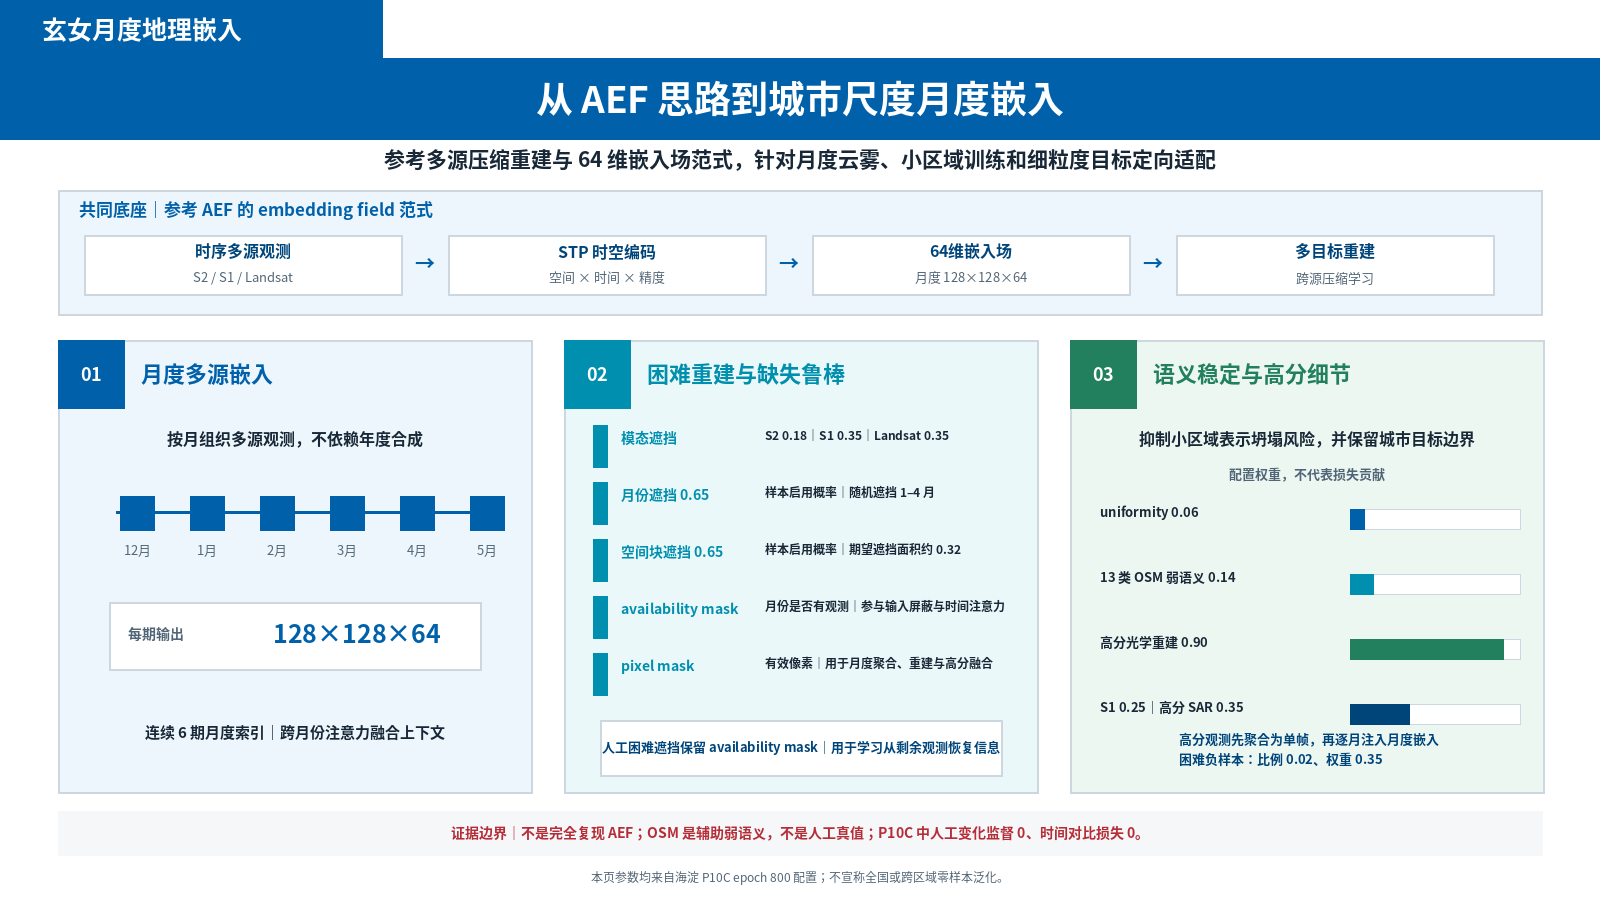
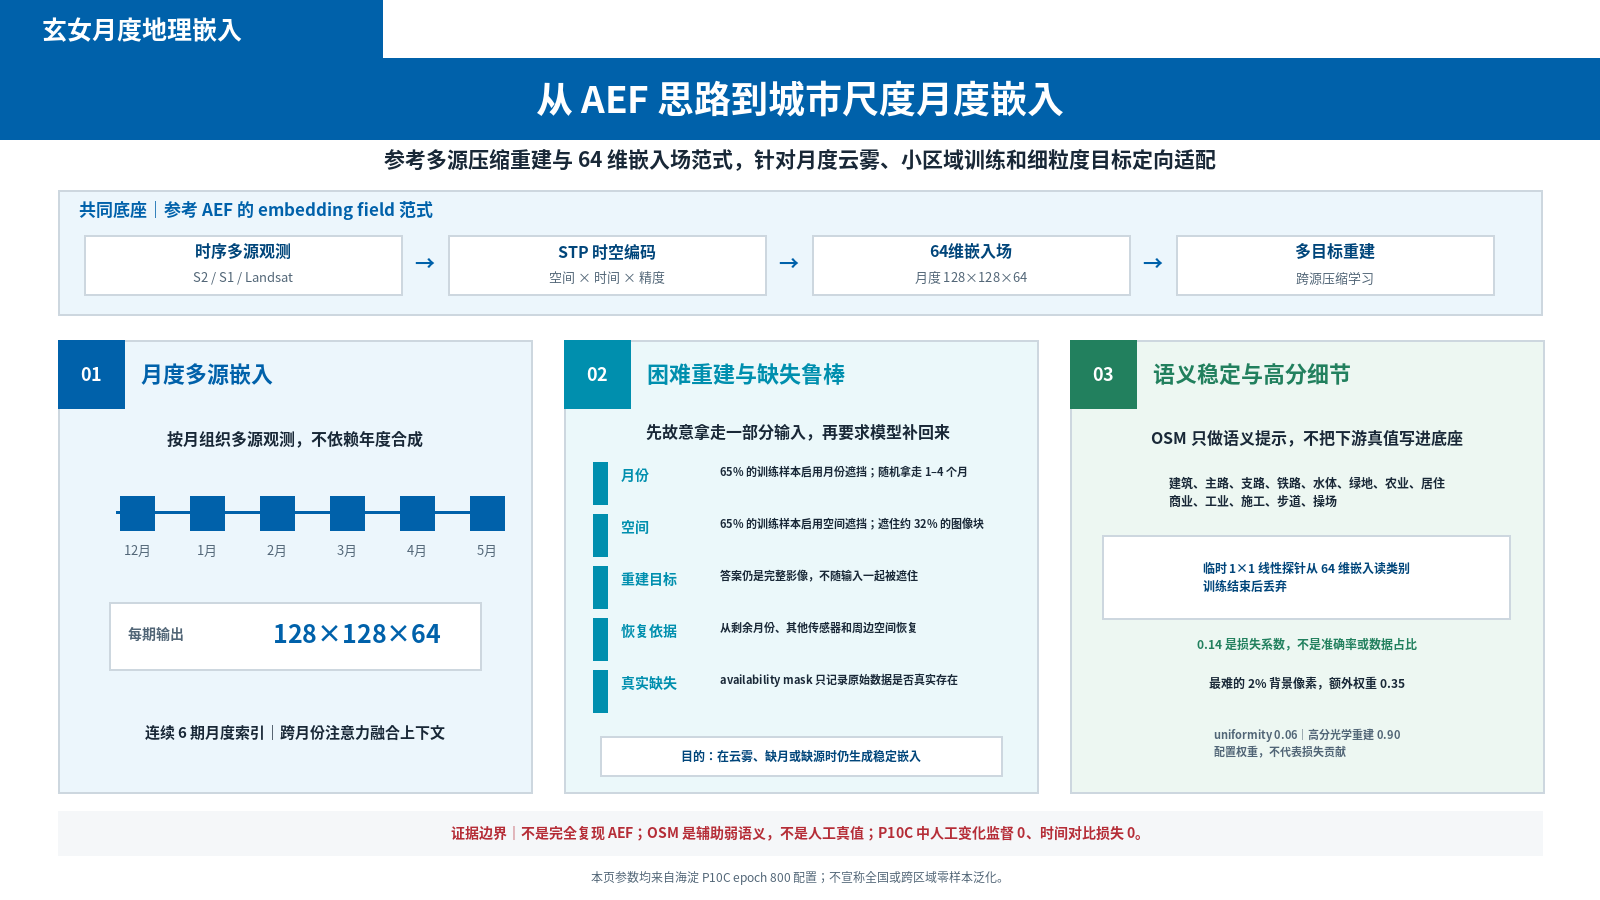
docs: clarify Pujiang slide 3 training recipe

Changed region(s): [[0.3438, 0.4667, 0.625, 0.8711], [0.6875, 0.4667, 0.9375, 0.8711]]

diff --git a/scripts/report/build_pujiang_slide03.py b/scripts/report/build_pujiang_slide03.py
@@ -47,17 +47,11 @@ BASE_NODES = [
 ]
 MONTHS = ["12月", "1月", "2月", "3月", "4月", "5月"]
 MASK_FACTS = [
-    ("模态遮挡", "S2 0.18｜S1 0.35｜Landsat 0.35"),
-    ("月份遮挡 0.65", "样本启用概率｜随机遮挡 1–4 月"),
-    ("空间块遮挡 0.65", "样本启用概率｜期望遮挡面积约 0.32"),
-    ("availability mask", "月份是否有观测｜参与输入屏蔽与时间注意力"),
-    ("pixel mask", "有效像素｜用于月度聚合、重建与高分融合"),
-]
-SEMANTIC_FACTS = [
-    ("uniformity 0.06", 0.06, BLUE),
-    ("13 类 OSM 弱语义 0.14", 0.14, CYAN),
-    ("高分光学重建 0.90", 0.90, GREEN),
-    ("S1 0.25｜高分 SAR 0.35", 0.35, DEEP_BLUE),
+    ("月份", "65% 的训练样本启用月份遮挡；随机拿走 1–4 个月"),
+    ("空间", "65% 的训练样本启用空间遮挡；遮住约 32% 的图像块"),
+    ("重建目标", "答案仍是完整影像，不随输入一起被遮住"),
+    ("恢复依据", "从剩余月份、其他传感器和周边空间恢复"),
+    ("真实缺失", "availability mask 只记录原始数据是否真实存在"),
 ]
 
 
@@ -271,20 +265,32 @@ def add_monthly_card(slide) -> None:
 def add_masking_card(slide) -> None:
     x = 4.70
     add_card_frame(slide, x, "困难重建与缺失鲁棒", "02", PALE_CYAN, CYAN)
-    y = 3.48
-    for index, (title, detail) in enumerate(MASK_FACTS):
-        row_y = y + index * 0.49
-        add_rect(slide, x + 0.24, row_y, 0.12, 0.40, CYAN, CYAN)
-        add_text(slide, title, x + 0.48, row_y, 1.30, 0.40, 12, CYAN, True)
-        add_text(slide, detail, x + 1.68, row_y, 1.98, 0.40, 12, INK, True)
-    add_rect(slide, x + 0.30, 5.99, 3.34, 0.50, WHITE, LINE)
     add_text(
         slide,
-        "人工困难遮挡保留 availability mask\n用于学习从剩余观测恢复被遮挡信息",
+        "先故意拿走一部分输入，再要求模型补回来",
+        x + 0.22,
+        3.43,
+        3.50,
+        0.34,
+        13,
+        INK,
+        True,
+        PP_ALIGN.CENTER,
+    )
+    y = 3.83
+    for index, (title, detail) in enumerate(MASK_FACTS):
+        row_y = y + index * 0.48
+        add_rect(slide, x + 0.24, row_y, 0.10, 0.40, CYAN, CYAN)
+        add_text(slide, title, x + 0.45, row_y, 0.83, 0.40, 12, CYAN, True)
+        add_text(slide, detail, x + 1.27, row_y, 2.43, 0.40, 12, INK, True)
+    add_rect(slide, x + 0.30, 6.28, 3.34, 0.23, WHITE, LINE)
+    add_text(
+        slide,
+        "目的：学会在云雾、缺月或缺源时仍生成稳定嵌入",
         x + 0.38,
-        6.00,
+        6.29,
         3.18,
-        0.47,
+        0.20,
         12,
         DEEP_BLUE,
         True,
@@ -297,7 +303,7 @@ def add_semantic_card(slide) -> None:
     add_card_frame(slide, x, "语义稳定与高分细节", "03", PALE_GREEN, GREEN)
     add_text(
         slide,
-        "抑制小区域表示坍塌风险，并保留城市目标边界",
+        "OSM 只做语义提示，不把下游真值写进底座",
         x + 0.25,
         3.47,
         3.44,
@@ -309,32 +315,62 @@ def add_semantic_card(slide) -> None:
     )
     add_text(
         slide,
-        "配置权重，不代表损失贡献",
+        "13 类：建筑、主路、支路、铁路、水体、绿地、农业、居住、商业、工业、施工、步道、操场",
         x + 0.25,
-        3.80,
+        3.84,
         3.44,
-        0.24,
+        0.64,
         12,
-        MUTED,
+        INK,
         True,
         PP_ALIGN.CENTER,
     )
-    y = 4.08
-    max_width = 1.55
-    for index, (label, value, color) in enumerate(SEMANTIC_FACTS):
-        row_y = y + index * 0.54
-        add_text(slide, label, x + 0.25, row_y, 2.08, 0.32, 12, INK, True)
-        add_rect(slide, x + 2.38, row_y + 0.08, max_width, 0.17, WHITE, LINE)
-        add_rect(slide, x + 2.38, row_y + 0.08, max(0.12, max_width * value), 0.17, color, color)
+    add_rect(slide, x + 0.27, 4.56, 3.40, 0.76, WHITE, LINE)
     add_text(
         slide,
-        "高分观测先聚合为单帧，再逐月注入月度嵌入\n困难负样本：比例 0.02｜权重 0.35",
-        x + 0.28,
-        6.00,
-        3.36,
-        0.51,
+        "怎么进入模型？\n临时 1×1 线性探针从 64 维嵌入读类别；训练结束后丢弃",
+        x + 0.38,
+        4.59,
+        3.18,
+        0.69,
         12,
         DEEP_BLUE,
+        True,
+        PP_ALIGN.CENTER,
+    )
+    add_text(
+        slide,
+        "0.14 是损失系数，不是准确率或数据占比",
+        x + 0.27,
+        5.41,
+        3.40,
+        0.34,
+        12,
+        GREEN,
+        True,
+        PP_ALIGN.CENTER,
+    )
+    add_text(
+        slide,
+        "困难负样本：最难的 2% 背景像素，额外权重 0.35",
+        x + 0.27,
+        5.78,
+        3.40,
+        0.40,
+        12,
+        INK,
+        True,
+        PP_ALIGN.CENTER,
+    )
+    add_text(
+        slide,
+        "uniformity 0.06｜高分光学重建 0.90\n配置权重，不代表损失贡献",
+        x + 0.27,
+        6.17,
+        3.40,
+        0.36,
+        12,
+        MUTED,
         True,
         PP_ALIGN.CENTER,
     )
@@ -488,51 +524,70 @@ def build_preview(output: Path) -> None:
         ink,
     )
 
-    row_y = 425
+    draw_centered(
+        draw,
+        "先故意拿走一部分输入，再要求模型补回来",
+        (590, 413, 1005, 451),
+        pil_font(16, True),
+        ink,
+    )
+    row_y = 462
     for title, detail in MASK_FACTS:
         draw.rectangle((593, row_y, 607, row_y + 42), fill=cyan)
         draw.text((621, row_y + 1), title, font=pil_font(14, True), fill=cyan)
-        draw.text((765, row_y + 1), detail, font=pil_font(12, True), fill=ink)
-        row_y += 57
-    draw.rectangle((600, 720, 1002, 776), fill="white", outline=line, width=2)
+        draw.text((720, row_y + 1), detail, font=pil_font(11, True), fill=ink)
+        row_y += 52
+    draw.rectangle((600, 736, 1002, 776), fill="white", outline=line, width=2)
     draw_centered(
         draw,
-        "人工困难遮挡保留 availability mask｜用于学习从剩余观测恢复信息",
-        (604, 722, 998, 774),
-        pil_font(13, True),
+        "目的：在云雾、缺月或缺源时仍生成稳定嵌入",
+        (604, 738, 998, 774),
+        pil_font(12, True),
         deep_blue,
     )
 
     draw_centered(
         draw,
-        "抑制小区域表示坍塌风险，并保留城市目标边界",
+        "OSM 只做语义提示，不把下游真值写进底座",
         (1095, 417, 1519, 461),
         pil_font(16, True),
         ink,
     )
     draw_centered(
         draw,
-        "配置权重，不代表损失贡献",
-        (1095, 460, 1519, 489),
-        pil_font(13, True),
-        muted,
+        "建筑、主路、支路、铁路、水体、绿地、农业、居住\n商业、工业、施工、步道、操场",
+        (1095, 458, 1519, 526),
+        pil_font(12, True),
+        ink,
     )
-    row_y = 501
-    for label, value, color in SEMANTIC_FACTS:
-        rgb = (color[0], color[1], color[2])
-        draw.text((1100, row_y), label, font=pil_font(13, True), fill=ink)
-        draw.rectangle((1350, row_y + 8, 1520, row_y + 28), fill="white", outline=line)
-        draw.rectangle(
-            (1350, row_y + 8, 1350 + max(14, int(170 * value)), row_y + 28),
-            fill=rgb,
-        )
-        row_y += 65
+    draw.rectangle((1102, 535, 1510, 619), fill="white", outline=line, width=2)
     draw_centered(
         draw,
-        "高分观测先聚合为单帧，再逐月注入月度嵌入\n困难负样本：比例 0.02、权重 0.35",
-        (1090, 718, 1528, 781),
-        pil_font(13, True),
+        "临时 1×1 线性探针从 64 维嵌入读类别\n训练结束后丢弃",
+        (1108, 540, 1504, 614),
+        pil_font(12, True),
         deep_blue,
+    )
+    draw_centered(
+        draw,
+        "0.14 是损失系数，不是准确率或数据占比",
+        (1095, 626, 1519, 662),
+        pil_font(12, True),
+        green,
+    )
+    draw_centered(
+        draw,
+        "最难的 2% 背景像素，额外权重 0.35",
+        (1095, 663, 1519, 704),
+        pil_font(12, True),
+        ink,
+    )
+    draw_centered(
+        draw,
+        "uniformity 0.06｜高分光学重建 0.90\n配置权重，不代表损失贡献",
+        (1095, 709, 1519, 778),
+        pil_font(11, True),
+        muted,
     )
 
     draw.rectangle((58, 811, 1542, 855), fill=pale_gray)

diff --git a/tests/test_pujiang_slide03.py b/tests/test_pujiang_slide03.py
@@ -31,21 +31,24 @@ def test_slide03_states_p10c_adaptations_without_overclaiming(tmp_path: Path) ->
         "128×128×64",
         "连续 6 期",
         "跨月份注意力",
-        "模态遮挡",
-        "月份遮挡 0.65",
-        "样本启用概率",
-        "空间块遮挡 0.65",
-        "期望遮挡面积约 0.32",
+        "先故意拿走一部分输入",
+        "65% 的训练样本启用月份遮挡",
+        "随机拿走 1–4 个月",
+        "65% 的训练样本启用空间遮挡",
+        "遮住约 32% 的图像块",
+        "答案仍是完整影像",
+        "从剩余月份、其他传感器和周边空间恢复",
         "availability mask",
-        "pixel mask",
-        "人工困难遮挡保留 availability mask",
+        "只记录原始数据是否真实存在",
         "uniformity 0.06",
-        "13 类 OSM 弱语义 0.14",
-        "困难负样本",
+        "OSM 只做语义提示",
+        "建筑、主路、支路、铁路、水体、绿地、农业、居住、商业、工业、施工、步道、操场",
+        "0.14 是损失系数",
+        "临时 1×1 线性探针",
+        "训练结束后丢弃",
+        "最难的 2% 背景像素",
+        "额外权重 0.35",
         "高分光学重建 0.90",
-        "高分观测先聚合为单帧，再逐月注入月度嵌入",
-        "S1 0.25",
-        "高分 SAR 0.35",
         "人工变化监督 0",
         "时间对比损失 0",
         "配置权重，不代表损失贡献",
